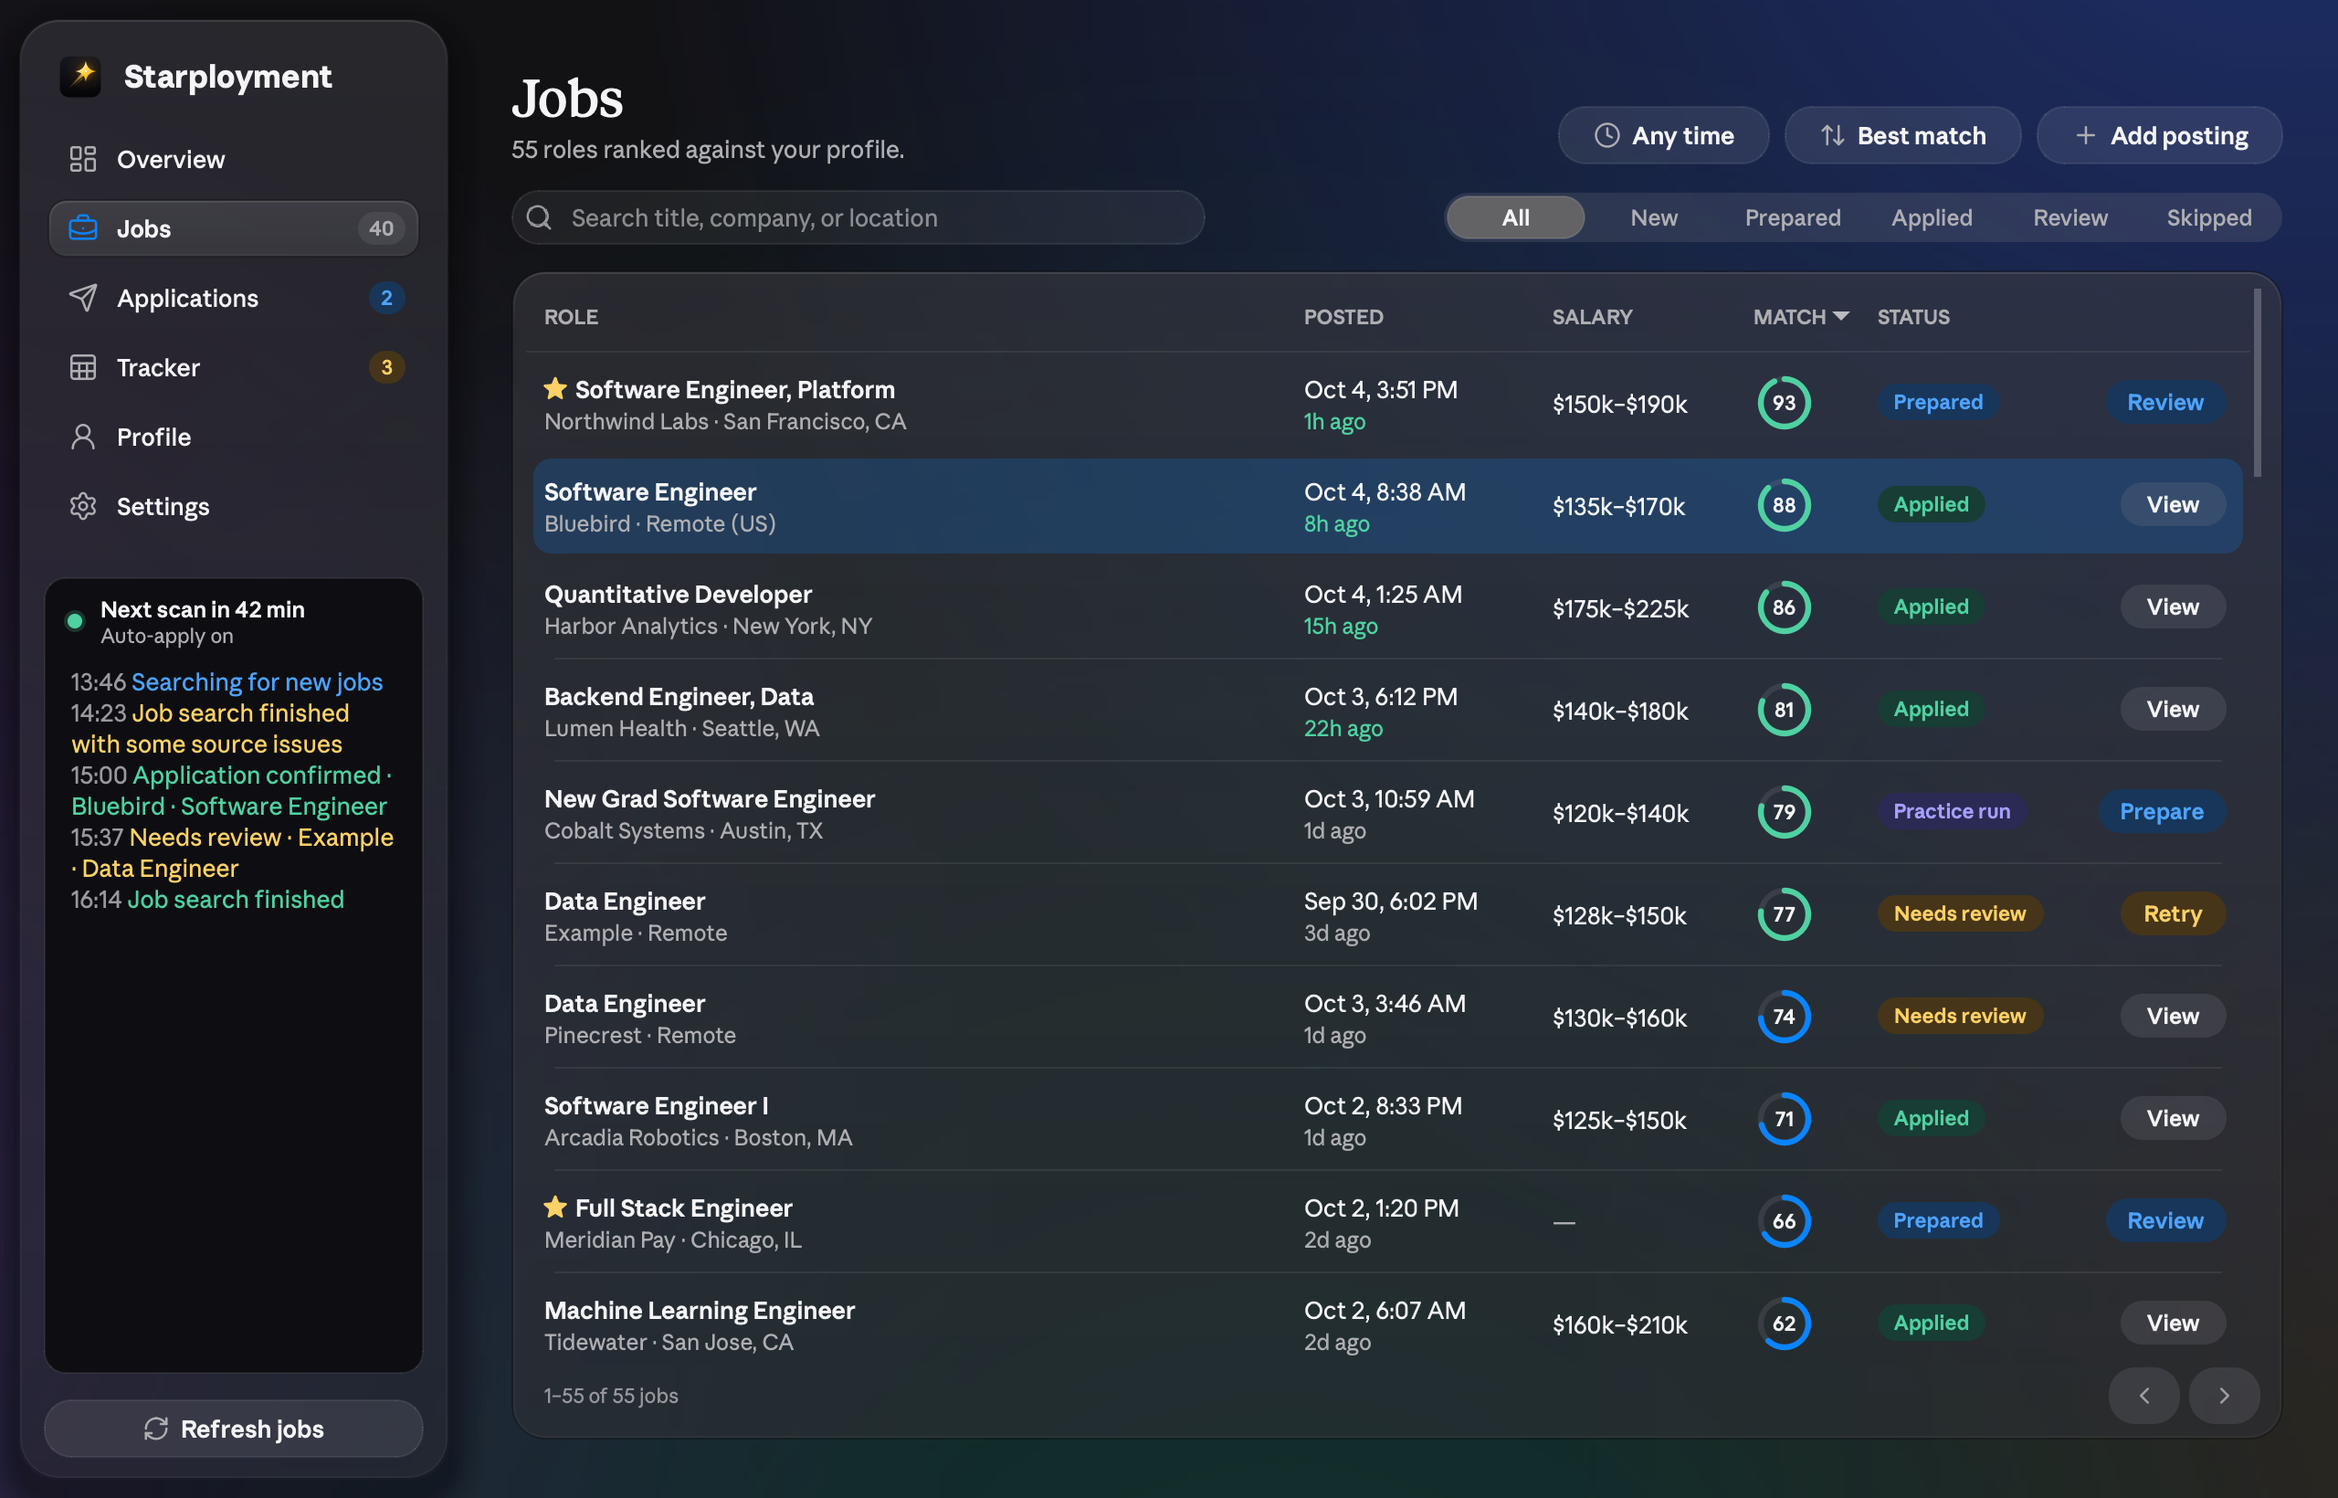
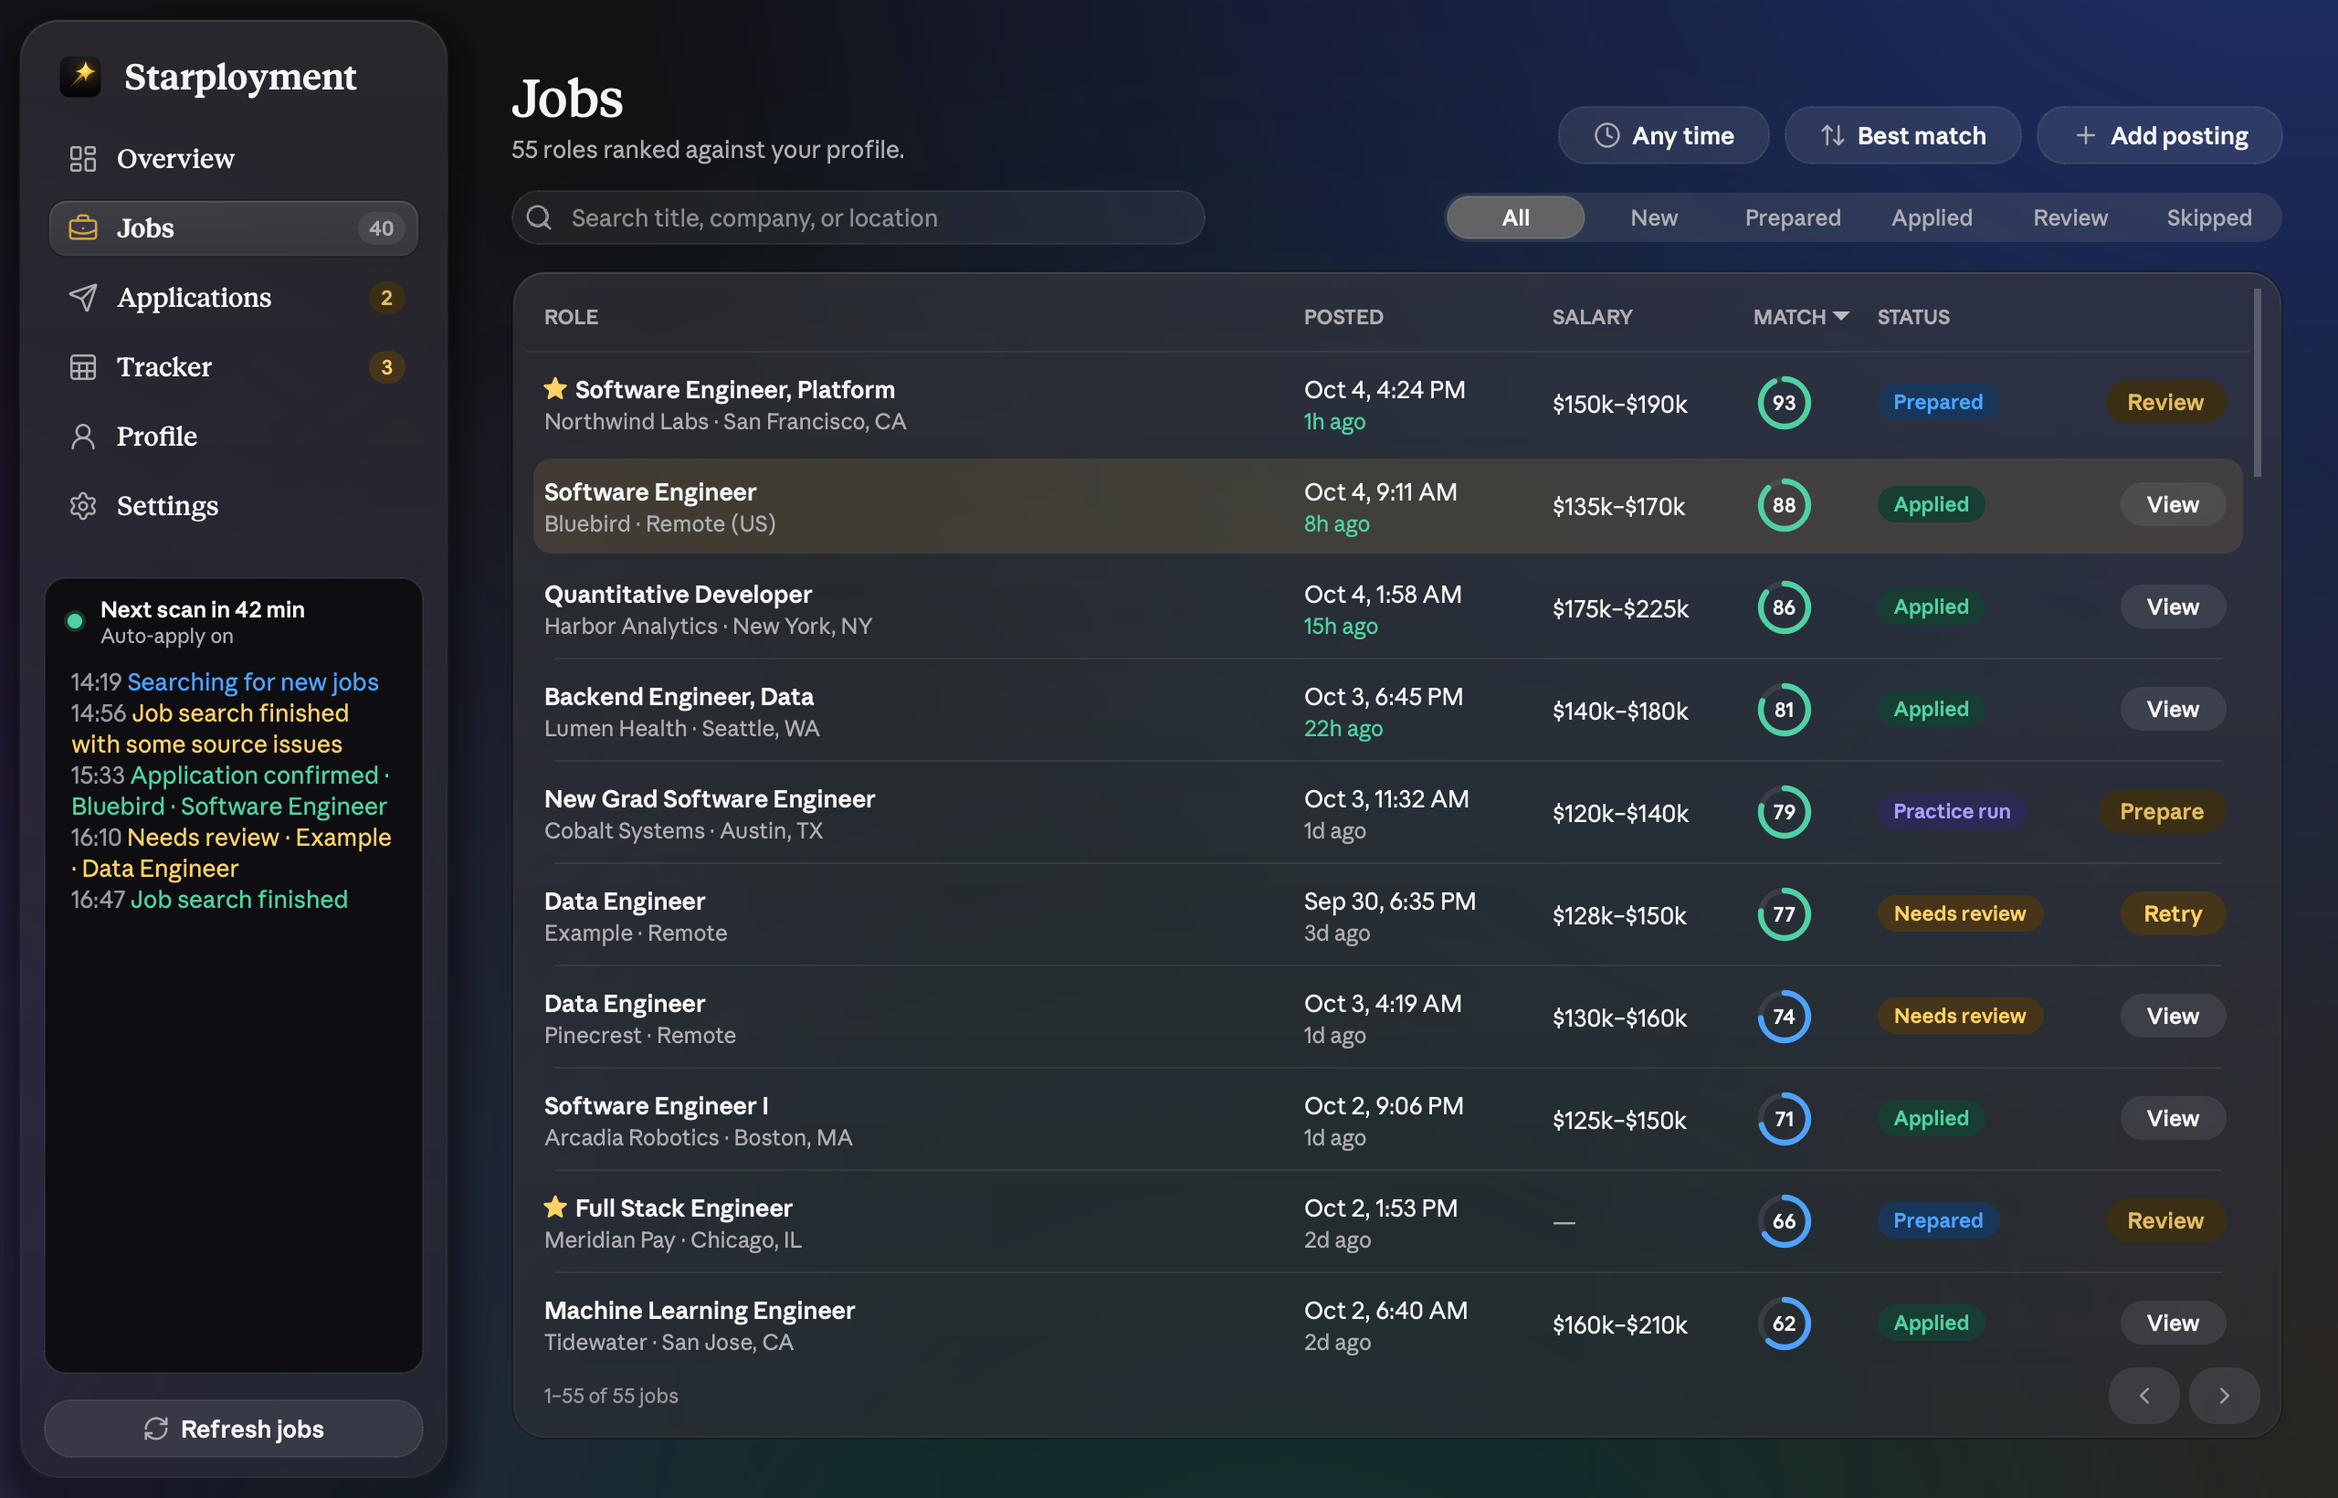
Dark gold highlight and a serif sidebar
- The highlight color is dark gold, after the star in the icon: selection, focus,
  switches, links, buttons, the selected page, and table rows. White text sits only
  on the darker button golds, so it keeps its contrast in both themes.
- Blue stays the tone for applications in progress (prepared, queued, sending), the
  console's progress lines, and mid-range match scores, so none of them reads like
  the gold highlight or the amber "needs review".
- With Claude's type, the sidebar's app name and page names use Anthropic Serif.
- README screenshots refreshed.

diff --git a/jobhub/desktop/styles.py b/jobhub/desktop/styles.py
@@ -42,6 +42,8 @@ def stylesheet(appearance: str | None = None) -> str:
     # Page titles use Claude's serif at a regular weight, the way Claude sets its headings.
     title_rule = f"font-family: '{display}'; font-weight: 500;" if fonts.active() == fonts.CLAUDE \
         else "font-weight: 700;"
+    brand_rule = f"font-family: '{display}'; font-size: 19px; font-weight: 600;" if fonts.active() == fonts.CLAUDE \
+        else "font-size: 17px; font-weight: 700;"
     check_icon = icon_path("check").as_posix()
     up_icon = icon_path("chevron-up").as_posix()
     down_icon = icon_path("chevron-down").as_posix()
@@ -50,7 +52,7 @@ def stylesheet(appearance: str | None = None) -> str:
     secondary_fill = "rgba(255,255,255,0.09)" if dark else "rgba(255,255,255,0.82)"
     secondary_hover = "rgba(255,255,255,0.14)" if dark else "rgba(255,255,255,1.0)"
     secondary_pressed = "rgba(255,255,255,0.06)" if dark else "rgba(235,236,240,1.0)"
-    primary_top = "#2E8CFF" if dark else "#1A84F0"
+    primary_top = c['button_top']
     scroll_handle = "rgba(255,255,255,0.22)" if dark else "rgba(0,0,0,0.20)"
     scroll_handle_hover = "rgba(255,255,255,0.34)" if dark else "rgba(0,0,0,0.32)"
     # Notes and logs inside a panel read as soft wells, not darker boxes with borders.
@@ -73,7 +75,7 @@ def stylesheet(appearance: str | None = None) -> str:
     QSplitter::handle {{ background: transparent; }}
 
     /* Typography (select with objectName) ------------------------------ */
-    QLabel#brand {{ color: {c['text']}; font-size: 17px; font-weight: 700; }}
+    QLabel#brand {{ color: {c['text']}; {brand_rule} }}
     QLabel#eyebrow {{ color: {c['text_muted']}; font-size: 11px; font-weight: 600; }}
     QLabel#pageTitle {{ color: {c['text']}; font-size: 28px; {title_rule} }}
     QLabel#sheetTitle {{ color: {c['text']}; font-size: 22px; {title_rule} }}
@@ -110,7 +112,7 @@ def stylesheet(appearance: str | None = None) -> str:
     QLineEdit, QTextEdit, QPlainTextEdit, QComboBox, QSpinBox, QDoubleSpinBox {{
         background-color: {c['fill_control']}; color: {c['text']};
         border: 1px solid {control_line}; border-radius: 9px; padding: 6px 10px;
-        selection-background-color: {c['accent']}; selection-color: #FFFFFF; }}
+        selection-background-color: {c['button_fill']}; selection-color: #FFFFFF; }}
     QLineEdit:hover, QTextEdit:hover, QPlainTextEdit:hover, QSpinBox:hover, QComboBox:hover {{
         border-color: {control_line_hover}; }}
     QLineEdit:focus, QTextEdit:focus, QPlainTextEdit:focus, QComboBox:focus, QSpinBox:focus, QDoubleSpinBox:focus {{
@@ -149,7 +151,7 @@ def stylesheet(appearance: str | None = None) -> str:
     QComboBox {{ padding-right: 26px; }}
     QComboBox::drop-down {{ border: none; width: 24px; }}
     QComboBox QAbstractItemView {{ background: {c['surface']}; border: 1px solid {control_line}; border-radius: 8px;
-        selection-background-color: {c['accent']}; selection-color: #FFFFFF; padding: 4px; }}
+        selection-background-color: {c['button_fill']}; selection-color: #FFFFFF; padding: 4px; }}
 
     /* Buttons: capsules ------------------------------------------------- */
     QPushButton {{ background: qlineargradient(x1:0, y1:0, x2:0, y2:1, stop:0 {primary_top}, stop:1 {c['button_fill']});
@@ -216,7 +218,7 @@ def stylesheet(appearance: str | None = None) -> str:
     QCheckBox, QRadioButton {{ spacing: 8px; padding: 3px 0; color: {c['text']}; background: transparent; }}
     QCheckBox::indicator {{ width: 16px; height: 16px; border: 1px solid {control_line_hover}; border-radius: 5px;
         background-color: {c['fill_control']}; }}
-    QCheckBox::indicator:checked {{ border-color: {c['accent']}; background-color: {c['accent']}; image: url("{check_icon}"); }}
+    QCheckBox::indicator:checked {{ border-color: {c['button_fill']}; background-color: {c['button_fill']}; image: url("{check_icon}"); }}
     QTabWidget::pane {{ border: none; background: transparent; }}
     QTabBar::tab {{ background: transparent; color: {c['text_muted']}; padding: 7px 12px; border: none; }}
     QTabBar::tab:selected {{ color: {c['text']}; font-weight: 600; }}
@@ -225,7 +227,7 @@ def stylesheet(appearance: str | None = None) -> str:
     QMenu {{ background-color: {c['glass_thick']}; color: {c['text']}; border: 1px solid {control_line};
         border-radius: 10px; padding: 5px; }}
     QMenu::item {{ padding: 6px 22px 6px 12px; border-radius: 6px; }}
-    QMenu::item:selected {{ background-color: {c['accent']}; color: #FFFFFF; }}
+    QMenu::item:selected {{ background-color: {c['button_fill']}; color: #FFFFFF; }}
     QMenu::item:disabled {{ color: {c['disabled']}; }}
     QMenu::separator {{ height: 1px; background-color: {c['separator']}; margin: 4px 8px; }}
     QMenuBar {{ background-color: transparent; color: {c['text']}; }}
@@ -275,15 +277,15 @@ def color_for_status(status: str, appearance: str | None = None) -> tuple[str, s
         "applied": (c["green"], c["green_soft"]),
         "needs_human": (c["amber"], c["amber_soft"]),
         "failed": (c["red"], c["red_soft"]),
-        "queued": (c["accent_text"], c["accent_soft"]),
-        "applying": (c["accent_text"], c["accent_soft"]),
+        "queued": (c["info"], c["info_soft"]),
+        "applying": (c["info"], c["info_soft"]),
         "dry_run": (c["indigo"], c["indigo_soft"]),
         # prepared applications
-        "prepared": (c["accent_text"], c["accent_soft"]),
-        "ready": (c["accent_text"], c["accent_soft"]),
+        "prepared": (c["info"], c["info_soft"]),
+        "ready": (c["info"], c["info_soft"]),
         "needs_answers": (c["amber"], c["amber_soft"]),
         "approved": (c["indigo"], c["indigo_soft"]),
-        "sending": (c["accent_text"], c["accent_soft"]),
+        "sending": (c["info"], c["info_soft"]),
         "sent": (c["green"], c["green_soft"]),
         "practice": (c["indigo"], c["indigo_soft"]),
         "unconfirmed": (c["amber"], c["amber_soft"]),

diff --git a/jobhub/desktop/theme.py b/jobhub/desktop/theme.py
@@ -32,14 +32,20 @@ PALETTES: dict[str, dict[str, str]] = {
         "text_subtle": "#6E6E73",
         "border": "#D1D3DA",
         "border_soft": "#E2E4EA",
-        "accent": "#0071E3",
-        "accent_hover": "#0077ED",
-        "accent_pressed": "#0066CC",
-        "button_fill": "#0071E3",
-        "button_hover": "#0077ED",
-        "button_pressed": "#0062C4",
-        "accent_soft": "#E3EEFF",
-        "accent_text": "#0062C4",
+        # The highlight color is dark gold, after the star in the app icon: selection,
+        # focus, switches, links, and buttons. White sits only on ``button_*``.
+        "accent": "#9A7418",
+        "accent_hover": "#A67E1C",
+        "accent_pressed": "#86650F",
+        "button_top": "#977219",
+        "button_fill": "#8C6A14",
+        "button_hover": "#977318",
+        "button_pressed": "#7A5B0E",
+        "accent_soft": "#F6EDD3",
+        "accent_text": "#7A5B0E",
+        # Blue stays the tone for applications in progress (queued, prepared, sending).
+        "info": "#0062C4",
+        "info_soft": "#E3EEFF",
         "green": "#0F766E",
         "green_soft": "#E3F6F0",
         "amber": "#9A5700",
@@ -68,7 +74,7 @@ PALETTES: dict[str, dict[str, str]] = {
         "fill_control_hover": "rgba(255,255,255,0.95)",
         "fill_quiet": "rgba(118,118,128,0.12)",
         "fill_hover": "rgba(0,0,0,0.045)",
-        "fill_selected": "rgba(0,113,227,0.11)",
+        "fill_selected": "rgba(154,116,24,0.13)",
         # Surfaces inside a glass panel: a soft, borderless well (no second glass layer).
         "fill_inset": "rgba(255,255,255,0.46)",
         "separator": "rgba(60,60,67,0.10)",
@@ -85,14 +91,17 @@ PALETTES: dict[str, dict[str, str]] = {
         "text_subtle": "#98989E",
         "border": "#4A4A50",
         "border_soft": "#34343A",
-        "accent": "#0A84FF",
-        "accent_hover": "#3295FF",
-        "accent_pressed": "#0066CC",
-        "button_fill": "#0A6CDB",
-        "button_hover": "#1A7AE8",
-        "button_pressed": "#085CBA",
-        "accent_soft": "#17365A",
-        "accent_text": "#4DA3FF",
+        "accent": "#D4A63E",
+        "accent_hover": "#DDB250",
+        "accent_pressed": "#B88C2C",
+        "button_top": "#9C7720",
+        "button_fill": "#8F6B17",
+        "button_hover": "#9C7720",
+        "button_pressed": "#7A5A10",
+        "accent_soft": "#3A2F15",
+        "accent_text": "#E3BC62",
+        "info": "#4DA3FF",
+        "info_soft": "#17365A",
         "green": "#4FD1A1",
         "green_soft": "#173D34",
         "amber": "#FFD166",
@@ -120,7 +129,7 @@ PALETTES: dict[str, dict[str, str]] = {
         "fill_control_hover": "rgba(255,255,255,0.09)",
         "fill_quiet": "rgba(118,118,128,0.24)",
         "fill_hover": "rgba(255,255,255,0.055)",
-        "fill_selected": "rgba(10,132,255,0.20)",
+        "fill_selected": "rgba(212,166,62,0.14)",
         "fill_inset": "rgba(255,255,255,0.035)",
         "separator": "rgba(255,255,255,0.07)",
         "track_off": "rgba(120,120,128,0.36)",

diff --git a/jobhub/desktop/widgets.py b/jobhub/desktop/widgets.py
@@ -187,6 +187,15 @@ def ui_font(pixel_size: int, weight: QFont.Weight = QFont.Weight.Normal) -> QFon
     return font
 
 
+def display_font(pixel_size: int, weight: QFont.Weight = QFont.Weight.Normal) -> QFont:
+    """Title font at an exact pixel size: Claude's serif, or the interface font with System type."""
+    family = fonts.display_family()
+    font = QFont(family) if family else QFont()
+    font.setPixelSize(pixel_size)
+    font.setWeight(weight)
+    return font
+
+
 # --------------------------------------------------------------------------- painting
 
 @lru_cache(maxsize=2)
@@ -595,7 +604,9 @@ class _NavDelegate(QStyledItemDelegate):
                 "accent": (colors["accent_text"], colors["accent_soft"]),
             }.get(tone, (colors["text_muted"], colors["fill_quiet"]))
             paint_pill(painter, badge_rect, badge, fg, bg, font)
-        font = ui_font(13, QFont.Weight.DemiBold if selected else QFont.Weight.Medium)
+        # Page names share the serif of the app title when Claude's type is in use.
+        serif = fonts.active() == fonts.CLAUDE
+        font = display_font(14 if serif else 13, QFont.Weight.DemiBold if selected else QFont.Weight.Medium)
         painter.setFont(font)
         painter.setPen(qcolor(colors["text"]))
         text_rect = QRectF(text_left, rect.top(), rect.right() - text_left - badge_width - 12, rect.height())

diff --git a/jobhub/desktop/delegates.py b/jobhub/desktop/delegates.py
@@ -200,7 +200,7 @@ def score_color(score: float) -> str:
     if score >= 75:
         return colors["green"]
     if score >= 55:
-        return colors["accent"]
+        return colors["info"]   # blue, so the bands stay distinct from the gold highlight and amber
     if score >= 35:
         return colors["amber"]
     return colors["text_subtle"]
@@ -262,7 +262,7 @@ class ActionDelegate(QStyledItemDelegate):
             "retry": (colors["amber"], colors["amber_soft"]),
         }.get(kind, (colors["text"], colors["fill_quiet"]))
         if hovered and kind == "apply":
-            fg, bg = "#FFFFFF", colors["accent"]
+            fg, bg = "#FFFFFF", colors["button_fill"]
         elif hovered:
             bg = with_alpha(bg, min(1.0, qcolor(bg).alphaF() + 0.18))
         font = ui_font(12, QFont.Weight.DemiBold)

diff --git a/jobhub/desktop/console.py b/jobhub/desktop/console.py
@@ -27,7 +27,7 @@ def tone_colors() -> dict[str, str]:
     on a dark terminal in Dark mode and on a light panel in Light mode."""
     c = current_colors()
     return {"success": c["green"], "green": c["green"], "warning": c["amber"], "amber": c["amber"],
-            "error": c["red"], "red": c["red"], "busy": c["accent_text"], "accent": c["accent_text"],
+            "error": c["red"], "red": c["red"], "busy": c["info"], "accent": c["info"],
             "info": c["text"], "neutral": c["text_muted"], "time": c["text_subtle"]}
 
 

diff --git a/jobhub/desktop/wizard.py b/jobhub/desktop/wizard.py
@@ -141,7 +141,7 @@ class StepIndicator(QWidget):
                 if current:
                     painter.setBrush(with_alpha(colors["accent"], 0.18))
                     painter.drawEllipse(circle.adjusted(-4, -4, 4, 4))
-                painter.setBrush(qcolor(colors["accent"]))
+                painter.setBrush(qcolor(colors["button_fill"]))   # carries a white numeral
                 painter.drawEllipse(circle)
             else:
                 painter.setBrush(qcolor(colors["surface"]))
